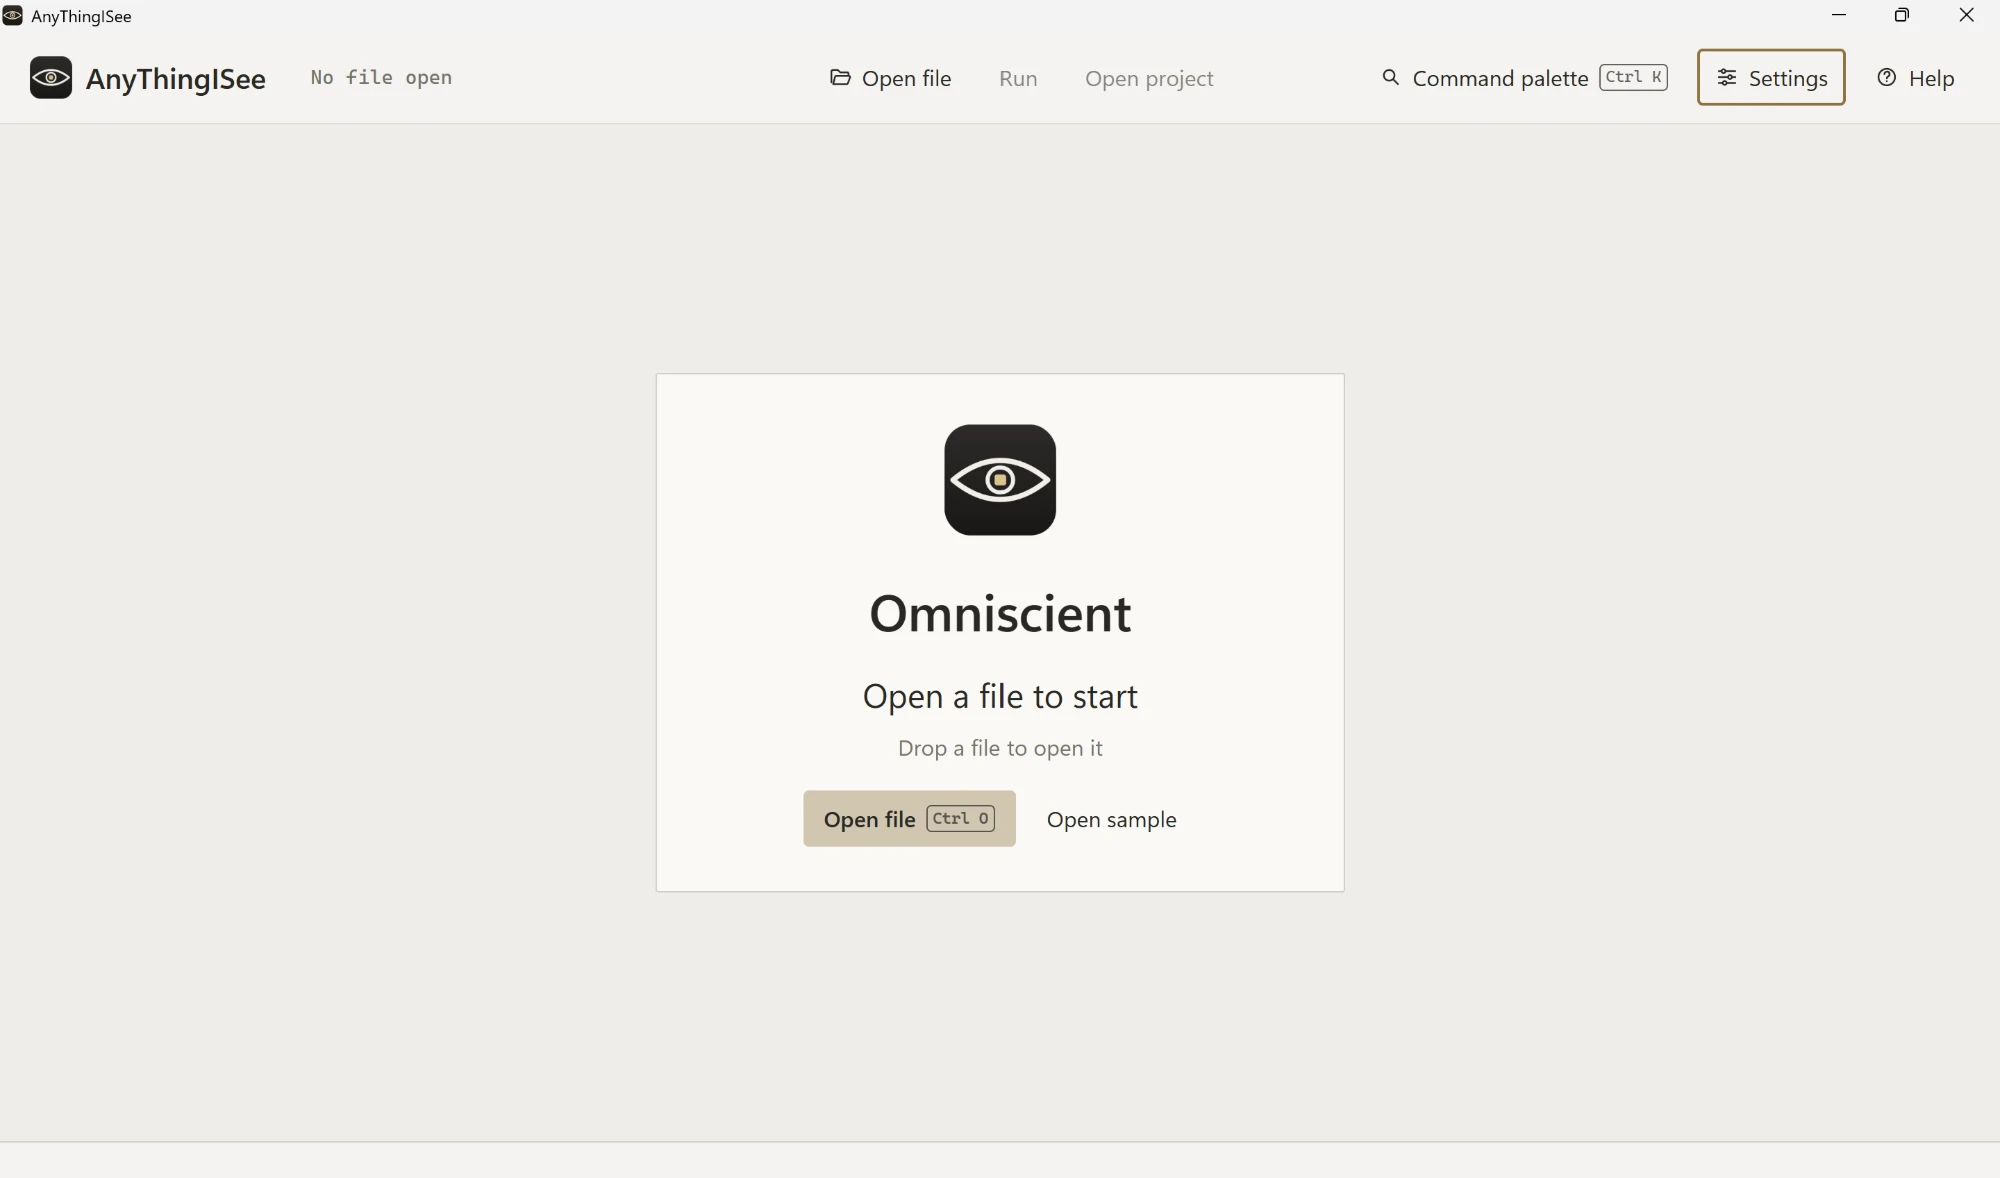
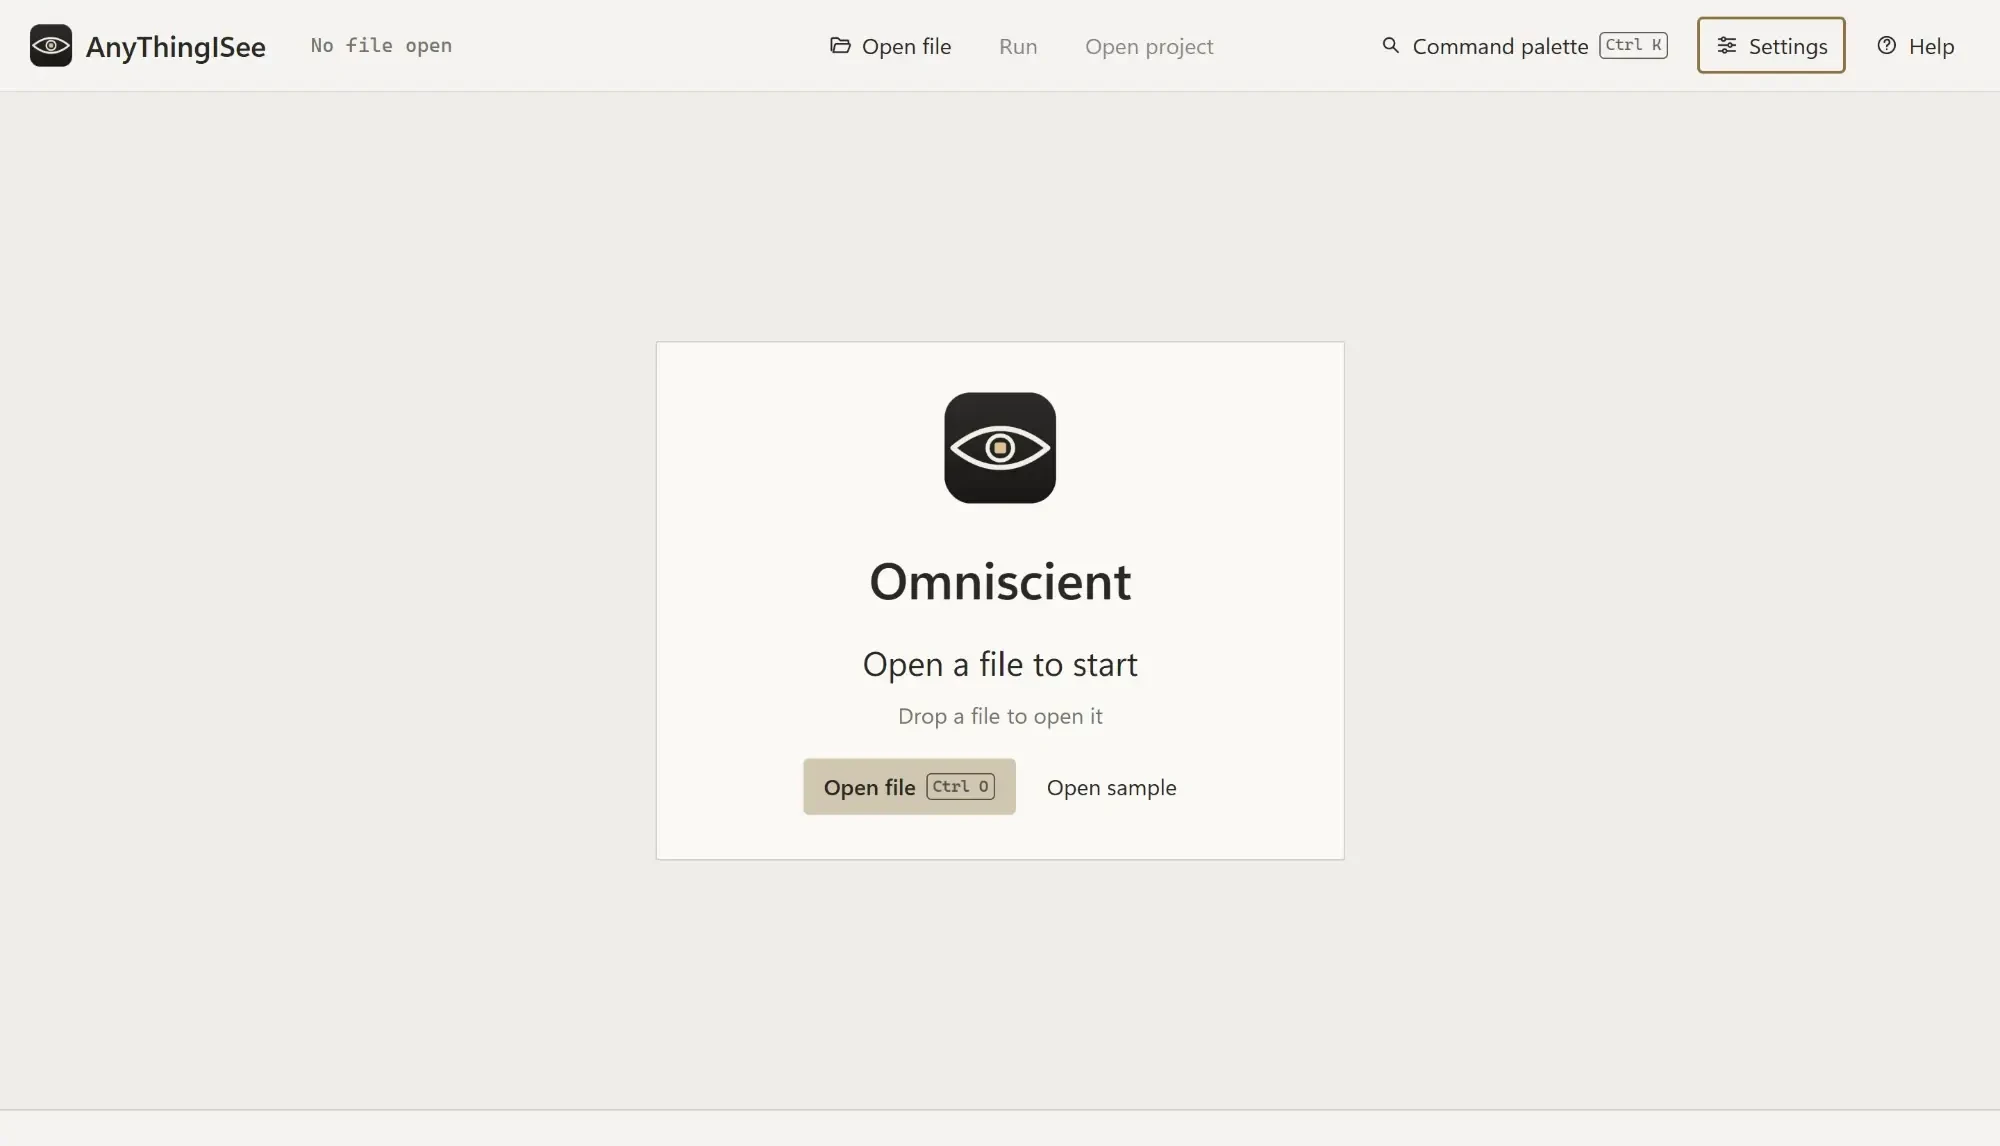
fix: 시작 화면 자르기 · 2번 화면 크게 · 마지막 다운로드 섹션 삭제 · 릴리스 상세 중복 제거
- 시작 화면 위 Windows 창 제목 줄(32px) 잘라냄
- 지그재그 2번 줄에서 사진 칸이 좁은 쪽으로 가던 문제 수정 (세 화면 모두 같은 폭)
- 메인 마지막 '지금 바로 첫 파일을 열어 보세요' 섹션과 안 쓰는 다운로드 CTA · 문구 정리
- 릴리스 상세: 본문 첫 줄(제목 반복) · 설치 파일 링크 · SHA-256 블록(오른쪽 파일 목록과 중복) ·
  한국어 페이지의 영어 요약 문단을 사이트에서만 뺌 (GitHub 원문은 그대로), 테스트 5건

Closes #53

diff --git a/src/app/[locale]/page.tsx b/src/app/[locale]/page.tsx
@@ -1,15 +1,11 @@
 import Image from "next/image";
 import { getFormatter, getTranslations, setRequestLocale } from "next-intl/server";
 import { CodeDemo } from "@/components/home/code-demo";
-import { DownloadCta } from "@/components/home/download-cta";
 import { FeatureIcon, type FeatureIconName } from "@/components/home/feature-icon";
 import { Screenshot } from "@/components/home/screenshot";
 import { ArrowRight, Check } from "@/components/icons";
 import { Link } from "@/i18n/navigation";
-import { downloadPath } from "@/lib/downloads";
-import { formatBytes } from "@/lib/format";
 import { getLatestRelease } from "@/lib/github";
-import { external } from "@/lib/links";
 import releaseBand from "../../../public/images/release-band.jpg";
 import cEn from "../../../public/screens/c-en.webp";
 import cKo from "../../../public/screens/c-ko.webp";
@@ -29,14 +25,9 @@ export default async function HomePage({ params }: PageProps<"/[locale]">) {
   const format = await getFormatter();
 
   const release = await getLatestRelease();
-  const installer = release.installer;
   const date = release.publishedAt
     ? format.dateTime(new Date(release.publishedAt), { dateStyle: "medium" })
     : "";
-  const meta = t("hero.meta", {
-    size: installer ? formatBytes(installer.size) : "",
-    version: release.version,
-  });
 
   const features = t.raw("features.items") as (Item & { icon: FeatureIconName; lead: string })[];
   const steps = t.raw("flow.steps") as Item[];
@@ -49,14 +40,6 @@ export default async function HomePage({ params }: PageProps<"/[locale]">) {
   const tourShots = [ko ? cKo : cEn, ko ? graphKo : graphEn, startEn];
   const tourAlts = [t("screens.cAlt"), t("screens.graphAlt"), t("screens.startAlt")];
 
-  const cta = installer && (
-    <DownloadCta
-      href={downloadPath(release.tag, installer.name, locale)}
-      label={t("hero.download")}
-      macLabel={t("hero.mac")}
-      windowsLinkLabel={t("hero.windowsLink")}
-    />
-  );
 
   return (
     <>
@@ -144,7 +127,9 @@ export default async function HomePage({ params }: PageProps<"/[locale]">) {
           {tour.map((item, i) => (
             <article
               key={item.label}
-              className="grid items-center gap-x-14 gap-y-8 lg:grid-cols-[minmax(0,1.35fr)_minmax(0,1fr)]"
+              className={`grid items-center gap-x-14 gap-y-8 ${
+                i % 2 === 1 ? "lg:grid-cols-[minmax(0,1fr)_minmax(0,1.35fr)]" : "lg:grid-cols-[minmax(0,1.35fr)_minmax(0,1fr)]"
+              }`}
             >
               <div className={i % 2 === 1 ? "lg:order-2" : ""}>
                 <Screenshot src={tourShots[i]} alt={tourAlts[i]} sizes="(min-width: 1200px) 660px, 94vw" priority={i === 0} {...shot} />
@@ -245,27 +230,6 @@ export default async function HomePage({ params }: PageProps<"/[locale]">) {
             </details>
           ))}
         </div>
-      </section>
-
-      {/* 다운로드: 큰 문장 */}
-      <section className="flex flex-col items-center pb-8 pt-44 text-center">
-        <h2 className="max-w-[12em] text-[clamp(2.25rem,1.4rem+3.4vw,4rem)] leading-[1.1] tracking-[-0.03em]">
-          {t("download.title")}
-        </h2>
-        <p className="mt-5 text-muted">{t("download.body")}</p>
-        <div className="mt-9">{cta}</div>
-        <p className="mt-3.5 font-mono text-sm text-muted">{meta}</p>
-        <p className="mt-7 flex flex-wrap justify-center gap-x-7 gap-y-3 text-[15px]">
-          <a href={external.issues} target="_blank" rel="noopener noreferrer" className="text-link">
-            {t("download.issues")} ↗
-          </a>
-          <a href={external.guide} target="_blank" rel="noopener noreferrer" className="text-link">
-            {t("download.guide")} ↗
-          </a>
-          <a href={`${external.repo}/releases`} target="_blank" rel="noopener noreferrer" className="text-link">
-            {t("download.mac")} ↗
-          </a>
-        </p>
       </section>
     </div>
     </>

diff --git a/tests/release-body.test.ts b/tests/release-body.test.ts
@@ -1,0 +1,41 @@
+import { describe, expect, it } from "vitest";
+import { cleanReleaseBody } from "@/lib/release-body";
+
+const body = `AnyThingISee Free Edition 0.1.0 Preview — Windows x64
+
+[**Windows 설치 파일 다운로드 / Download installer**](https://github.com/kkinomalo/AnyThingISee-releases/releases/download/v0.1.0/setup.exe)
+
+## 설치 및 사용
+
+1. 설치합니다.
+
+자세한 사용법은 [README](https://github.com/kkinomalo/AnyThingISee-releases#readme)를 참조하십시오.
+
+SHA-256 (\`setup.exe\`):
+\`\`\`text
[1 lines of base64/hex data omitted]
+\`\`\`
+
+This is an unsigned Windows x64 preview.`;
+
+const title = "AnyThingISee Free Edition 0.1.0 Preview";
+
+describe("cleanReleaseBody (릴리스 상세 중복 제거)", () => {
+  const ko = cleanReleaseBody(body, { title, locale: "ko" });
+  it("제목을 반복하는 첫 줄 제거", () => expect(ko).not.toContain("— Windows x64"));
+  it("설치 파일 링크만 있는 줄 제거, 다른 링크는 유지", () => {
+    expect(ko).not.toContain("Download installer");
+    expect(ko).toContain("[README]");
+  });
+  it("SHA-256 줄 · 코드 블록 제거", () => {
+    expect(ko).not.toContain("SHA-256");
+    expect(ko).not.toContain("8290fe07");
+  });
+  it("한국어 페이지는 끝의 영어 요약 제거, 본문은 유지", () => {
+    expect(ko).not.toContain("unsigned Windows x64 preview");
+    expect(ko).toContain("## 설치 및 사용");
+  });
+  it("영어 · 일본어 페이지는 영어 요약 유지", () => {
+    expect(cleanReleaseBody(body, { title, locale: "en" })).toContain("unsigned Windows x64 preview");
+  });
+});

diff --git a/src/lib/release-body.ts b/src/lib/release-body.ts
@@ -1,0 +1,31 @@
+// 릴리스 상세 (#53) — GitHub 릴리스 본문에서 페이지의 다른 곳과 겹치는 부분을 뺀다.
+// 원문은 GitHub에 그대로 있고, 사이트에서만 정리해서 보여 준다.
+
+const HANGUL = /[가-힣]/;
+
+export function cleanReleaseBody(body: string, { title, locale }: { title: string; locale: string }) {
+  let text = body.replace(/\r\n/g, "\n");
+
+  // 1) 첫 줄이 제목을 반복하면 제거 (예: "AnyThingISee Free Edition 0.1.0 Preview — Windows x64")
+  const lines = text.split("\n");
+  const first = lines.findIndex((l) => l.trim() !== "");
+  if (first >= 0 && !lines[first].startsWith("#") && lines[first].includes(title)) lines.splice(first, 1);
+  text = lines.join("\n");
+
+  // 2) 설치 파일로 바로 가는 링크만 있는 줄 제거 (오른쪽 파일 목록과 중복)
+  text = text.replace(/^\s*\[[^\]]*\]\(https:\/\/github\.com\/[^)]*\/releases\/download\/[^)]*\)\s*$/gm, "");
+
+  // 3) "SHA-256 (`파일`):" 줄과 바로 뒤 코드 블록 제거 (파일 목록에 SHA-256이 있음)
+  text = text.replace(/^SHA-256[^\n]*:\s*\n+```[^\n]*\n[\s\S]*?\n```\s*$/gm, "");
+
+  // 4) 한국어 페이지에서는 한국어 본문 뒤에 붙은 영어 요약 문단 제거
+  if (locale === "ko" && HANGUL.test(text)) {
+    const paragraphs = text.trimEnd().split(/\n{2,}/);
+    while (paragraphs.length > 1 && !HANGUL.test(paragraphs.at(-1)!) && !paragraphs.at(-1)!.trim().startsWith("```")) {
+      paragraphs.pop();
+    }
+    text = paragraphs.join("\n\n");
+  }
+
+  return text.replace(/\n{3,}/g, "\n\n").trim();
+}

diff --git a/src/app/[locale]/releases/[tag]/page.tsx b/src/app/[locale]/releases/[tag]/page.tsx
@@ -8,6 +8,7 @@ import { ReleaseBadges } from "@/components/release-meta";
 import { Link } from "@/i18n/navigation";
 import { routing } from "@/i18n/routing";
 import { downloadPath } from "@/lib/downloads";
+import { cleanReleaseBody } from "@/lib/release-body";
 import { formatBytes } from "@/lib/format";
 import { getReleases } from "@/lib/github";
 
@@ -45,7 +46,7 @@ export default async function ReleasePage({ params }: PageProps<"/[locale]/relea
 
       <div className="mt-12 grid gap-12 lg:grid-cols-[1fr_22rem]">
         <article className="min-w-0">
-          <Markdown>{release.body}</Markdown>
+          <Markdown>{cleanReleaseBody(release.body, { title: release.title, locale })}</Markdown>
         </article>
 
         <aside className="rule-top h-fit space-y-4 pt-5 lg:sticky lg:top-24">
